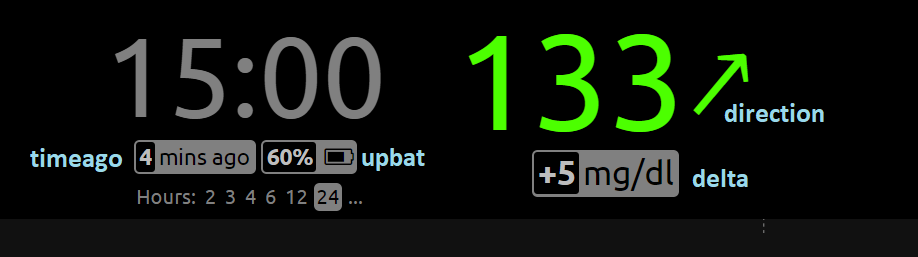
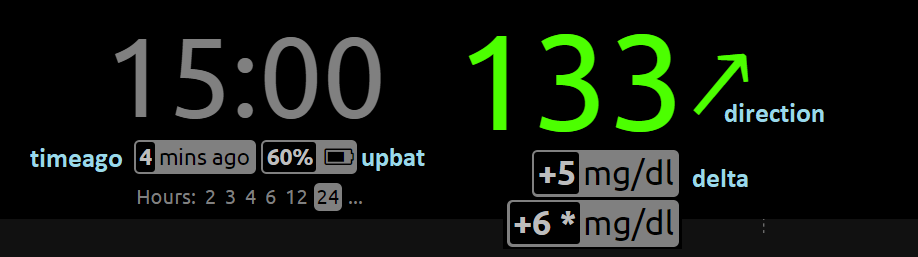
Fix typos and scripts
And going forward in NS description

Changed region(s): [[0.549, 0.7782, 0.7625, 0.965]]

diff --git a/docs/nightscout/setup_variables.md b/docs/nightscout/setup_variables.md
@@ -366,7 +366,7 @@ Default setting for new browser views, for the time mode. ('12' or '24')
 
 </br>
 
-## Default Plugins
+# Plugins
 
 Plugins are used to extend the way information is displayed, how notifications are sent, alarms are triggered, and more.
 
@@ -374,27 +374,78 @@ If you want the `ENABLE`'d plugins to show by default on any browser, you should
 
 If you want to specifically disable a plugin (mainly a default plugin) you should place it in the `DISABLE` variable.
 
-You also can enable them manually on your Nightscout view from the hamburger menu. `Authenticate` and `Save` the settings on your browser.
+You also can enable them manually on your Nightscout view from the drawer menu. `Authenticate` and `Save` the settings on your browser.
 
 <img src="..\img\SetupNS09.png" style="zoom:80%;" />
 
 </br>
 
+## Default Plugins
+
 Below some default plugins: `timeago`, `upbat`, `direction` and `delta`.
+
+Hovering the mouse on (computer) or touching (touch screen) some plugins will give you additional information.
+
+##### `timeago` (Time Ago)
+
+Displays the time since last CGM entry. Use these extended setting to adjust behavior:
+
+- `TIMEAGO_ENABLE_ALERTS` (`false`) - Set to `true` to enable stale data alarms via Pushover and IFTTT.
+- `ALARM_TIMEAGO_WARN` (`on`) - possible values `on` or `off`
+- `ALARM_TIMEAGO_WARN_MINS` (`15`) - minutes since the last reading to trigger a warning
+- `ALARM_TIMEAGO_URGENT` (`on`) - possible values `on` or `off`
+- `ALARM_TIMEAGO_URGENT_MINS` (`30`) - minutes since the last reading to trigger a urgent alarm
+
+##### `upbat` (Uploader Battery)
+
+Displays the most recent battery status from the uploader phone. Use these extended setting to adjust behavior:
+
+- `UPBAT_ENABLE_ALERTS` (`false`) - Set to `true` to enable uploader battery alarms via Pushover and IFTTT.
+- `UPBAT_WARN` (`30`) - Minimum battery percent to trigger warning.
+- `UPBAT_URGENT` (`20`) - Minimum battery percent to trigger urgent alarm.
+
+##### `delta` (BG Delta)
+
+Calculates and displays the change between the last 2 BG values. Delta shows a `*` if time difference is more than 5 minutes.
+
+##### `direction` (BG Direction)
+
+Displays the trend direction.
 
 <img src="..\img\SetupNS11.png" style="zoom:80%;" />
 
 </br>
 
-`AR2` forecasting can be enabled/disabled from `... ` more about it [here](https://github.com/nightscout/nightscout.github.io/wiki/Forecasting).
+##### `devicestatus` (Device Status)
+
+Used by `upbat` and other plugins to display device status info. Supports the `DEVICESTATUS_ADVANCED="true"` extended setting to send all device statuses to the client for retrospective use and to support other plugins.
+
+Example: `upbat` information using `devicestatus`.
+
+<img src="..\img\SetupNS20.png" style="zoom:80%;" />
+
+</br>
+
+##### `ar2` (AR2 Forecasting)
+
+Generates alarms based on forecasted values. See [Forecasting using AR2 algorithm](https://github.com/nightscout/nightscout.github.io/wiki/Forecasting)
+
+- Enabled by default if no thresholds are set **OR** `ALARM_TYPES` includes `predict`.
+- `AR2` forecasting display can be enabled/disabled from `... `
+- Use extended settings to adjust AR2 behavior:
+  - `AR2_CONE_FACTOR` (`2`) - to adjust size of cone, use `0` for a single line.
 
 <img src="..\img\SetupNS10.png" style="zoom:80%;" />
 
 </br>
 
+##### `simplealarms` (Simple BG Alarms)
+
+Uses `BG_HIGH`, `BG_TARGET_TOP`, `BG_TARGET_BOTTOM`, `BG_LOW` thresholds to generate alarms.
+
 Simple alarms are enabled by default if one of the `BG_HIGH`, `BG_TARGET_TOP`, `BG_TARGET_BOTTOM`, `BG_LOW` thresholds is set or `ALARM_TYPES` includes `simple`.
 
-You'll find the plugin in the hamburger menu. You can change thresholds in `Profile editor`.
+You'll find the plugin in the drawer menu. You can change thresholds in `Profile editor`.
 
 You can click the loudspeaker icon to test the alarms volume or to snooze an active alarm.
 
@@ -402,13 +453,38 @@ You can click the loudspeaker icon to test the alarms volume or to snooze an act
 
 </br>
 
-Profile editor is available from the hamburger menu with the default variable `profile`.
+##### `profile` (Treatment Profile)
+
+Add a link in the drawer menu to Profile Editor and allows to enter treatment profile settings. Also uses the extended setting:
+
+- `PROFILE_HISTORY` (`off`) - possible values `on` or `off`. Enable/disable NS ability to keep history of your profiles (still experimental)
+- `PROFILE_MULTIPLE` (`off`) - possible values `on` or `off`. Enable/disable NS ability to handle and switch between multiple treatment profiles
+
+More variables of your profile will be used by Nightscout plugins like treatments, see [here](https://github.com/nightscout/cgm-remote-monitor#treatment-profile). 
 
 <img src="..\img\SetupNS13.png"/>
 
 </br>
 
-Database size allows you to monitor your free tier database size with the variable `dbsize`. The indication will not be accurate for other sizes than 512MiB unless you set it up correctly. See [here](https://github.com/nightscout/cgm-remote-monitor#dbsize-database-size).
+##### `dbsize` (Database Size)
+
+Show size of Nightscout Database, as a percentage of declared available space or in MiB.
+
+Many deployments of Nightscout use free tier of MongoDB Atlas on Heroku, which is limited in size to 512MiB. After some time, as volume of stored data grows, it may happen that this limit is reached and system is unable to store new data. This plugin provides pill that indicates size of Database and shows (when configured) alarms regarding reaching space limit.
+
+**IMPORTANT:** This plugin can only check how much space database already takes, *but cannot infer* max size available on server for it. To have correct alarms and realistic percentage, `DBSIZE_MAX` need to be properly set - according to your mongoDB hosting configuration.
+
+**NOTE:** This plugin rely on db.stats() for reporting *logical* size of database, which may be different than *physical* size of database on server. It may work for free tier of MongoDB on Atlas, since it calculate quota according to logical size too, but may fail for other hostings or self-hosted database with quota based on physical size.
+
+**NOTE:** MongoDB Atlas quota is for **all** databases in cluster, while each instance will get only size of **its own database only**. It is ok when you only have **one** database in cluster (most common scenario) but will not work for multiple parallel databases. In such case, spliting known quota equally beetween databases and setting `DBSIZE_MAX` to that fraction may help, but wont be precise.
+
+All sizes are expressed as integers, in *Mebibytes* `1 MiB == 1024 KiB == 1024*1024 B`
+
+- `DBSIZE_MAX` (`496`) - Maximal allowed size of database on your mongoDB server, in MiB. You need to adjust that value to match your database hosting limits - default value is for standard Heroku mongoDB free tier.
+- `DBSIZE_WARN_PERCENTAGE` (`60`) - Threshold to show first warning about database size. When database reach this percentage of `DBSIZE_MAX` size - pill will show size in yellow.
+- `DBSIZE_URGENT_PERCENTAGE` (`75`) - Threshold to show urgent warning about database size. When database reach this percentage of `DBSIZE_MAX` size, it is urgent to do backup and clean up old data. At this percentage info pill turns red.
+- `DBSIZE_ENABLE_ALERTS` (`false`) - Set to `true` to enable notifications about database size.
+- `DBSIZE_IN_MIB` (`false`) - Set to `true` to display size of database in MiB-s instead of default percentage.
 
 <img src="..\img\SetupNS15.png"/>
 
@@ -416,15 +492,69 @@ Database size allows you to monitor your free tier database size with the variab
 
 ## Advanced Plugins
 
-Care Portal plugin is an important plugin that gives access to the `Log a treatment` interface. Unlock it entering your API secret with the lock icon top right, then use the `+` icon to log a treatment. The variable required to enable it is `careportal`. 
+##### `careportal` (Careportal)
+
+An optional form to enter treatments.
+
+Care Portal is an important plugin that gives access to the `Log a treatment` interface. Unlock it entering your API secret with the lock icon top right, then use the `+` icon to log a treatment. 
 
 <img src="..\img\SetupNS14.png" style="zoom:80%;" />
 
 </br>
 
-Bolus Wizard plugin gives access to the `Bolus Wizard` interface. You can access it with the calculator icon top right. The variable required to enable it is `boluscalc`. 
+##### `boluscalc` (Bolus Wizard)
+
+Bolus Wizard plugin gives access to the `Bolus Wizard` interface. You can access it with the calculator icon top right. 
 
 <img src="..\img\SetupNS16.png" style="zoom:80%;" />
 
 </br>
 
+##### `food` (Custom Foods)
+
+Custom Foods enabled by the variable `food` allows to to customize your food database and adds a `Food Editor` entry in the menu.
+
+<img src="..\img\SetupNS17.png" style="zoom:80%;" />
+
+</br>
+
+##### `rawbg` (Raw BG)
+
+Calculates BG using sensor and calibration records from and displays an alternate BG values and noise levels. Defaults that can be adjusted with extended setting. Raw BG will only display if your sensor provides this data, your bridge device transfers it and your uploader sends it to Nightscout.
+
+- `DISPLAY`(`unsmoothed`) - Allows the user to control which algorithm is used to calculate the displayed raw BG values using the most recent calibration record.
+
+  - 	`unfiltered` - Raw BG is calculated by applying the calibration to the glucose record's unfiltered value.
+
+  - `filtered` - Raw BG is calculated by applying the calibration to the glucose record's filtered value. The glucose record's filtered values are generally produced by the CGM by a running average of the unfiltered values to produce a smoothed value when the sensor noise is high.
+
+  - `unsmoothed` - Raw BG is calculated by first finding the ratio of the calculated filtered value (the same value calculated by the `filtered` setting) to the reported glucose value. The displayed raw BG value is calculated by dividing the calculated unfiltered value (the same value calculated by the `unfiltered` setting) by the ratio. The effect is to exagerate changes in trend direction so the trend changes are more noticeable to the user. This is the legacy raw BG calculation algorithm.
+
+<img src="..\img\SetupNS21.png" style="zoom:40%;" />
+
+</br>
+
+##### `iob` (Insulin-on-Board)
+
+Adds the IOB pill visualization in the client and calculates values that used by other plugins. Uses treatments with insulin doses and the `dia` and `sens` fields from the [treatment profile](https://github.com/nightscout/cgm-remote-monitor#treatment-profile).
+
+##### `cob` (Carbs-on-Board)
+
+Adds the COB pill visualization in the client and calculates values that used by other plugins. Uses treatments with carb doses and the `carbs_hr`, `carbratio`, and `sens` fields from the [treatment profile](https://github.com/nightscout/cgm-remote-monitor#treatment-profile).
+
+When you enter the information with the Care Portal or Nightscout receives if from the uploader, you can see remaining insulin on board and carbs. 
+
+<img src="..\img\SetupNS18.png" style="zoom:80%;" />
+
+</br>
+
+##### `bwp` (Bolus Wizard Preview)
+
+This plugin in intended for the purpose of automatically snoozing alarms when the CGM indicates high blood sugar but there is also insulin on board (IOB) and secondly, alerting to user that it might be beneficial to measure the blood sugar using a glucometer and dosing insulin as calculated by the pump or instructed by trained medicare professionals. ***The values provided by the plugin are provided as a reference based on CGM data and insulin sensitivity you have configured, and are not intended to be used as a reference for bolus calculation.*** The plugin calculates the bolus amount when above your target, generates alarms when you should consider checking and bolusing, and snoozes alarms when there is enough IOB to cover a high BG. Uses the results of the `iob` plugin and `sens`, `target_high`, and `target_low` fields from the [treatment profile](https://github.com/nightscout/cgm-remote-monitor#treatment-profile). Defaults that can be adjusted with [extended setting](https://github.com/nightscout/cgm-remote-monitor#extended-settings)
+
+- `BWP_WARN` (`0.50`) - If `BWP` is > `BWP_WARN` a warning alarm will be triggered.
+- `BWP_URGENT` (`1.00`) - If `BWP` is > `BWP_URGENT` an urgent alarm will be triggered.
+- `BWP_SNOOZE_MINS` (`10`) - minutes to snooze when there is enough IOB to cover a high BG.
+- `BWP_SNOOZE` - (`0.10`) If BG is higher then the `target_high` and `BWP` < `BWP_SNOOZE` alarms will be snoozed for `BWP_SNOOZE_MINS`.
+
+<img src="..\img\SetupNS19.png" style="zoom:80%;" />

diff --git a/docs/update/migrate_heroku.md b/docs/update/migrate_heroku.md
@@ -105,7 +105,6 @@ This new key will be inserted at the bottom of the list.
 var bmLAB =  0;
 var sUsr, sPwd;
 var sFinalString = "Not defined yet";
-
 function ValidatemLab()
 {
   bmLab=0;
@@ -355,29 +354,36 @@ Click on the `Copy` button.
 <button onclick="ValidateAtlas()">Validate</button>
 
 <p id="validAtlas">Click the Validate button above to verify your string</p>
-<p id="auser">This is your username</p>
+<p id="auser">This is your Atlas database username</p>
+<p id="muser">This is your mLab database username</p>
 
 <script>
-var bAtlas =  0;
-var sAusr;
 
 function ValidateAtlas()
 {
 
   bAtlas=0;
-  var sString = "Looks good! Verify your Atlas user name below:";
+  var iAS, iAP;
+  var sString = "Undefined";
   var sAtlas = document.getElementById("myAtlas").value;
-  var sdB = document.getElementById("myAtlas").value;
-  var iAS = sAtlas.search("://");
-  if(iAS!=11) { sString = "Atlas URI should start with mongodb+srv://"; }
+
+  iAS = sAtlas.search("://");
+  if(iAS!=11)
+  {
+    sString = "Atlas URI should start with mongodb+srv://";
+  }
   else
   {
-    var iAP = sAtlas.search("<password>");
-    if(iAP==-1) { sString = "Atlas URI should contain &lt;password&gt;"; }
+    iAP = sAtlas.search("<password>");
+    if(iAP==-1)
+    {
+      sString = "Atlas URI should contain &lt;password&gt;"; 
+    }
     else
     {
       sString = sAtlas.substring(0,iAP);
       sFinalString = sString.concat(sPwd, sAtlas.substring(iAP+10));
+      sString = "Looks good! Verify your Atlas database username below is the same as mLab database username:";
       bAtlas=1;
     }
   }
@@ -386,8 +392,10 @@ function ValidateAtlas()
   {
     sAusr = sAtlas.substring(14, iAP-1);
     document.getElementById("auser").innerHTML = sAusr;
+    document.getElementById("muser").innerHTML = document.getElementById("user").innerHTML;
+    document.getElementById("validAtlas").innerHTML 
   }
-  document.getElementById("validAtlas").innerHTML = "Looks good! Verify your Atlas user name below is the same than mLab:";
+  document.getElementById("validAtlas").innerHTML = sString;
 }
 
 </script>
@@ -471,14 +479,15 @@ Click `Generate` to show the string you will need to copy in `MONGO_CONNECTION`.
 <script>
 function Generate()
 {
-  var sString = sFinalString;
   ValidatemLab();
   ValidateAtlas();
+  var sString = sFinalString;
   if(bmLab==0) {sString = "Validate the mLab string first";}
   else if(bAtlas==0) {sString = "Validate the Atlas string first";}
   document.getElementById("result").innerHTML = sString;
 }
 </script>
+
 
 !!! note
     If you see `Validate the mLab string first` you need to go back [there](../migrate_heroku/#mongodb_uri).

diff --git a/docs/update/migrate_azure.md b/docs/update/migrate_azure.md
@@ -97,7 +97,6 @@ Access your accounts from a computer. Do not change device/computer/browser duri
 var bmLAB =  0;
 var sUsr, sPwd;
 var sFinalString = "Not defined yet";
-
 function ValidatemLab()
 {
   bmLab=0;
@@ -357,7 +356,8 @@ Click on the `Copy` button.
 <button onclick="ValidateAtlas()">Validate</button>
 
 <p id="validAtlas">Click the Validate button above to verify your string</p>
-<p id="auser">This is your username</p>
+<p id="auser">This is your Atlas database username</p>
+<p id="muser">This is your mLab database username</p>
 
 <script>
 var bAtlas =  0;
@@ -384,13 +384,18 @@ function ValidateAtlas()
       bAtlas=1;
     }
   }
-
+  if(bmLab!=1)
+  {
+    document.getElementById("auser").innerHTML = "Validate mLab first";
+  }
   if(bAtlas==1)
   {
     sAusr = sAtlas.substring(14, iAP-1);
     document.getElementById("auser").innerHTML = sAusr;
+    document.getElementById("muser").innerHTML = document.getElementById("user").innerHTML;
+    document.getElementById("validAtlas").innerHTML = "Looks good! Verify your Atlas database username below is the same as mLab database username:";
   }
-  document.getElementById("validAtlas").innerHTML = "Looks good! Verify your Atlas user name below is the same than mLab:";
+  else document.getElementById("validAtlas").innerHTML = sString; 
 }
 
 </script>
@@ -482,6 +487,9 @@ function Generate()
   document.getElementById("result").innerHTML = sString;
 }
 </script>
+If you have your connection string skip the next instructions and [**continue here**](../migrate_azure/#connection-string).
+
+</br>
 
 !!! note
     If you see `Validate the mLab string first` you need to go back [there](../migrate_azure/#mongodb_uri).
@@ -533,9 +541,25 @@ Paste the resulting string and click `Save changes`
 
  </br>
 
+Find the variable named `MONGODB_URI` or `MONGOLAB_URI` that you identified at the beginning and click the cross to delete it.
+
+If the original variable was already named `MONGO_CONNECTION` it's been updated now, don't delete it.
+
+<img src="..\img\MigrateNS54.png" style="zoom:80%;" /> 
+
+ </br>
+
+Confirm with `Delete Config Var`
+
+<img src="..\img\MigrateNS55.png" style="zoom:80%;" /> 
+
+ </br>
+
 Congratulations, you completed migration from Azure to Heroku and Atlas.
 
 Browse to your Nightscout site and wait 5 minutes for a new value to show up (make sure your uploader is sending data).
+
+If you have connection errors and your site doesn't start, proceed to [troubleshooting](../../troubleshoot/connection_string).
 
 </br>
 

diff --git a/docs/troubleshoot/connection_string.md b/docs/troubleshoot/connection_string.md
@@ -67,7 +67,7 @@ function Analyze()
   iAS = sAtlas.search("<password>");
   if(iAS!=-1 && !bErr)
   { 
-    sString = "You should replace &lt;password&gt; with your actual Atlas database passwowrd in the Atlas string";
+    sString = "You should replace &lt;password&gt; with your actual Atlas database password in the Atlas string";
     bErr = 1;
   }
 
@@ -164,6 +164,12 @@ function Analyze()
 
 - If you've just migrated to Atlas, try to use [this help page](../../update/stringhelp.html) to verify or recreate it.
 - If you've just created a new site, try to use [this help page](../../nightscout/stringhelp.html) to verify or recreate it.
+- If you're still in trouble change your database password:
+
+</br>
+
+## Change your Atlas database password
+
 - To recover your connection string log into [Atlas](https://cloud.mongodb.com/)
 - Click `Connect` on your cluster
 
@@ -184,8 +190,12 @@ function Analyze()
 </br>
 
 - Open the [the help page](../../nightscout/stringhelp.html) in a new tab and paste the string in the first field.
+
+!!! warning "If you migrated from mLab and Heroku (not Azure)"
+    **Your database name should be identical to your database user name!** (Unless you modified it) "
+
 - If you don't remember your password invent a new one.
-- Copy the resulting string in your Heroku variable `MONGODB_URI` or `MONGO_CONNECTION`
+- Copy the resulting string in your Heroku variable `MONGODB_URI` (new Nightscout) or `MONGO_CONNECTION` (migration)
 - If you changed the password in the string you need to change it in the database too:
 - Click `Database Access`
 
